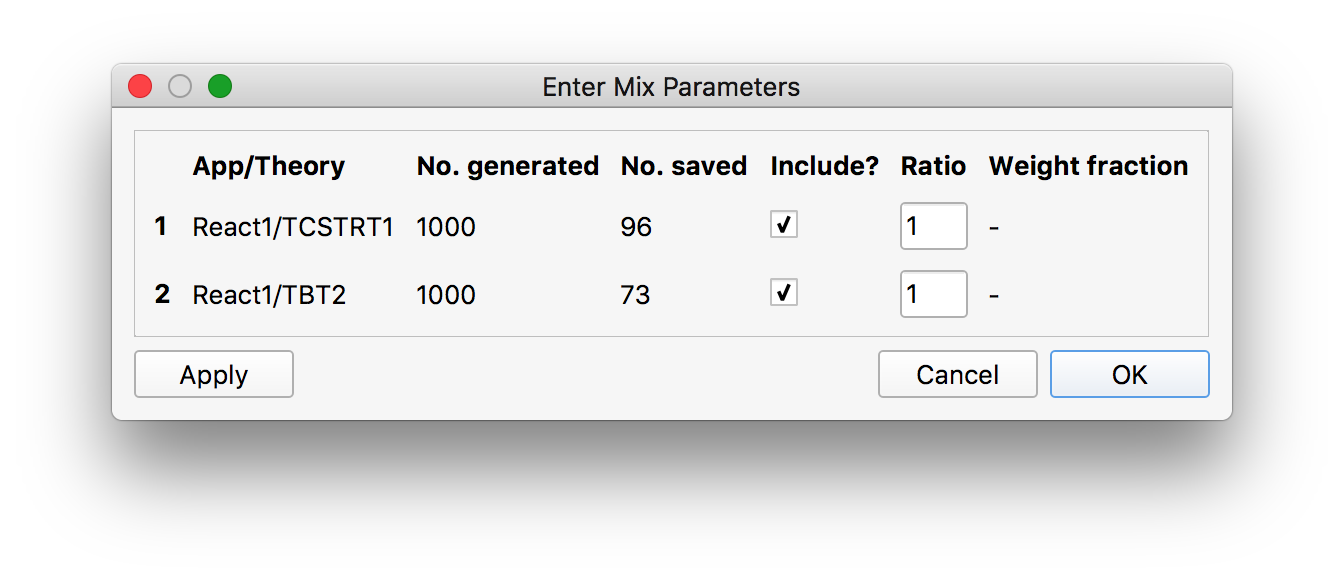
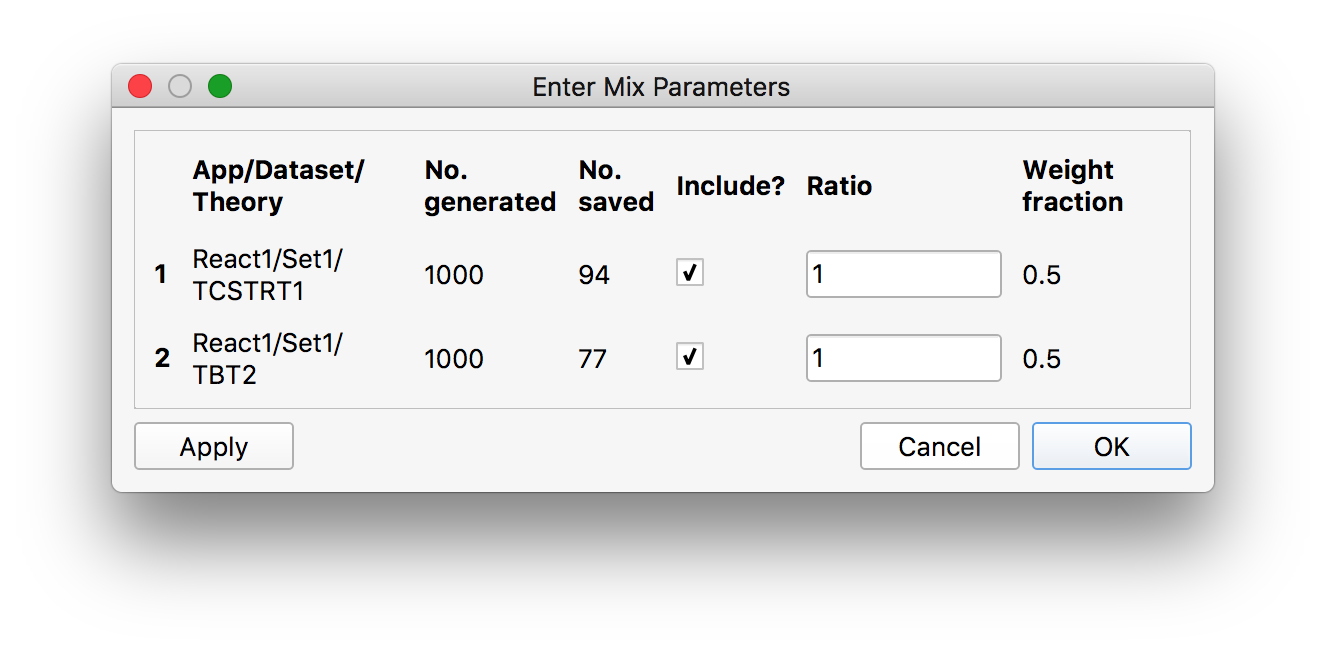
small edits

diff --git a/RepTate/theories/react_gui_tools.py b/RepTate/theories/react_gui_tools.py
@@ -108,7 +108,8 @@ def initialise_tool_bar(parent_theory):
     parent_theory.stop_calulation_button.setDisabled(True)
     #help button
     parent_theory.show_help_button = tb.addAction(
-        QIcon(':/Icon8/Images/new_icons/icons8-user-manual.png'), 'Online Manual')
+        QIcon(':/Icon8/Images/new_icons/icons8-user-manual.png'),
+        'Online Manual')
 
     #signals
     connection_id = parent_theory.bob_settings_button.triggered.connect(
@@ -310,7 +311,7 @@ def handle_increase_records(parent_theory, name):
 
 
 class ParameterReactMix(QDialog):
-    """Create form to input the MultiMetCSTR parameters"""
+    """Create form to input the Mix parameters"""
 
     def __init__(self, parent_theory):
         super().__init__(parent_theory)
@@ -330,11 +331,9 @@ class ParameterReactMix(QDialog):
         #insert widgets
         self.mainLayout = QVBoxLayout()
         self.mainLayout.addWidget(self.scroll)
-        self.mainLayout.addStretch()
         self.mainLayout.addWidget(buttonBox)
         self.setLayout(self.mainLayout)
         self.setWindowTitle("Enter Mix Parameters")
-        self.resize(self.mainLayout.sizeHint())
 
     def accept_(self):
         """
@@ -382,16 +381,23 @@ class ParameterReactMix(QDialog):
             line = []
             ndist = th.ndist
             ds = th.parent_dataset
+            app = ds.parent_application
+            manager = app.parent_manager
+
+            #find application tab-name
+            app_index = manager.ApplicationtabWidget.indexOf(app)
+            app_tab_name = manager.ApplicationtabWidget.tabText(app_index)
+            #find dataset tab-name
+            ds_index = app.DataSettabWidget.indexOf(ds)
+            ds_tab_name = app.DataSettabWidget.tabText(ds_index)
             #find theory tab-name
             th_index = ds.TheorytabWidget.indexOf(th)
             th_tab_name = ds.TheorytabWidget.tabText(th_index)
-            #find applicatino tab-name
-            app = ds.parent_application
-            manager = app.parent_manager
-            app_index = manager.ApplicationtabWidget.indexOf(app)
-            app_tab_name = manager.ApplicationtabWidget.tabText(app_index)
 
-            line.append(QLabel('%s/%s' % (app_tab_name, th_tab_name)))  #Name
+            label = QLabel('%s/%s/%s' % (app_tab_name, ds_tab_name,
+                                         th_tab_name))
+            label.setWordWrap(True)
+            line.append(label)
             line.append(QLabel(
                 '%.4g' % rch.react_dist[ndist].contents.npoly))  #no. generated
             line.append(
@@ -401,7 +407,6 @@ class ParameterReactMix(QDialog):
             checkbox.setChecked(True)
             line.append(checkbox)  #is included? - checked by default
             qledit = QLineEdit()
-            qledit.setSizePolicy(QSizePolicy.Ignored, QSizePolicy.Maximum)
             qledit.setValidator(dvalidator)
             qledit.setText('1')
             line.append(qledit)  #ratio
@@ -432,21 +437,39 @@ class ParameterReactMix(QDialog):
 
     def createFormGroupBox(self, theory_list):
         """Create a form to set the new values of mix parameters"""
-        self.formGroupBox = QWidget()
+        inner = QWidget()
         layout = QGridLayout()
         layout.setSpacing(10)
-        layout.addWidget(QLabel('<b>App/Theory</b>'), 0, 1)
-        layout.addWidget(QLabel('<b>No. generated</b>'), 0, 2)
-        layout.addWidget(QLabel('<b>No. saved</b>'), 0, 3)
-        layout.addWidget(QLabel('<b>Include?</b>'), 0, 4)
-        layout.addWidget(QLabel('<b>Ratio</b>'), 0, 5)
-        layout.addWidget(QLabel('<b>Weight fraction</b>'), 0, 6)
+
+        label = QLabel('<b>App/Dataset/Theory</b>')
+        label.setWordWrap(True)
+        layout.addWidget(label, 0, 1)
+
+        label = QLabel('<b>No. generated</b>')
+        label.setWordWrap(True)
+        layout.addWidget(label, 0, 2)
+
+        label = QLabel('<b>No. saved</b>')
+        label.setWordWrap(True)
+        layout.addWidget(label, 0, 3)
+
+        label = QLabel('<b>Include?<</b>')
+        label.setWordWrap(True)
+        layout.addWidget(label, 0, 4)
+
+        label = QLabel('<b>Ratio<</b>')
+        label.setWordWrap(True)
+        layout.addWidget(label, 0, 5)
+
+        label = QLabel('<b>Weight fraction<</b>')
+        label.setWordWrap(True)
+        layout.addWidget(label, 0, 6)
 
         for i in range(len(theory_list)):
             layout.addWidget(QLabel('<b>%d</b>' % (i + 1)), i + 1, 0)
             for j in range(len(self.lines[0])):
                 layout.addWidget(self.lines[i][j], i + 1, j + 1)
-        self.formGroupBox.setLayout(layout)
+        inner.setLayout(layout)
 
         #Scroll Area Properties
         self.scroll = QScrollArea()
@@ -454,7 +477,7 @@ class ParameterReactMix(QDialog):
         self.scroll.setVerticalScrollBarPolicy(Qt.ScrollBarAsNeeded)
         self.scroll.setHorizontalScrollBarPolicy(Qt.ScrollBarAsNeeded)
         self.scroll.setWidgetResizable(True)
-        self.scroll.setWidget(self.formGroupBox)
+        self.scroll.setWidget(inner)
 
     def list_all_open_react_theories(self):
         """List all oppened React theories in RepTate, excluding the Mix theories"""
@@ -508,7 +531,7 @@ class EditMixSaveParamDialog(QDialog):
     def createFormGroupBox(self, parent_theory):
         """Create a form to set the new values of the parameters"""
 
-        self.formGroupBox = QWidget()
+        inner = QWidget()
         layout = QGridLayout()
         layout.setSpacing(10)
 
@@ -555,7 +578,7 @@ class EditMixSaveParamDialog(QDialog):
             self.lines.append(line)  #save lines
             for j in range(3):
                 layout.addWidget(self.lines[i][j], i + 2, j + 1)
-        self.formGroupBox.setLayout(layout)
+        inner.setLayout(layout)
 
         #Scroll Area Properties
         self.scroll = QScrollArea()
@@ -563,7 +586,7 @@ class EditMixSaveParamDialog(QDialog):
         self.scroll.setVerticalScrollBarPolicy(Qt.ScrollBarAsNeeded)
         self.scroll.setHorizontalScrollBarPolicy(Qt.ScrollBarAsNeeded)
         self.scroll.setWidgetResizable(True)
-        self.scroll.setWidget(self.formGroupBox)
+        self.scroll.setWidget(inner)
 
 
 ###########################
@@ -684,7 +707,7 @@ class ParameterMultiMetCSTR(QDialog):
 
     def createFormGroupBox(self, ncatalyst):
         """Create a form to set the new values of polymerisation parameters"""
-        self.formGroupBox = QWidget()
+        inner = QWidget()
 
         layout = QGridLayout()
         layout.setSpacing(10)
@@ -700,15 +723,15 @@ class ParameterMultiMetCSTR(QDialog):
             layout.addWidget(QLabel('<b>%d</b>' % (i + 1)), i + 1, 0)
             for j in range(5):
                 layout.addWidget(self.lines[i][j], i + 1, j + 1)
-        self.formGroupBox.setLayout(layout)
+        inner.setLayout(layout)
 
         #Scroll Area Properties
         self.scroll = QScrollArea()
         self.scroll.setSizePolicy(QSizePolicy.Expanding, QSizePolicy.Expanding)
         self.scroll.setVerticalScrollBarPolicy(Qt.ScrollBarAsNeeded)
-        self.scroll.setHorizontalScrollBarPolicy(Qt.ScrollBarAlwaysOff)
+        self.scroll.setHorizontalScrollBarPolicy(Qt.ScrollBarAsNeeded)
         self.scroll.setWidgetResizable(True)
-        self.scroll.setWidget(self.formGroupBox)
+        self.scroll.setWidget(inner)
 
 
 ###############################################

diff --git a/RepTate/docs/source/manual/Theories/React/mixture.rst b/RepTate/docs/source/manual/Theories/React/mixture.rst
@@ -40,8 +40,8 @@ opens a form looking like:
 
 Whenever React creates a new Monte Carlo simulation, using one of the other
 theories, it stores the information for that simulation.
-The second column of the above mixture lists the theory tab-names and parent application
-tab-name of the currently existing React simulation. 
+The second column of the above form lists the parent application, dataset, and theory
+tab-names of the currently existing React simulation. 
 This should be
 sufficient information for the user to identify which row of the form
 corresponds to which theory. The form also gives additional information about
